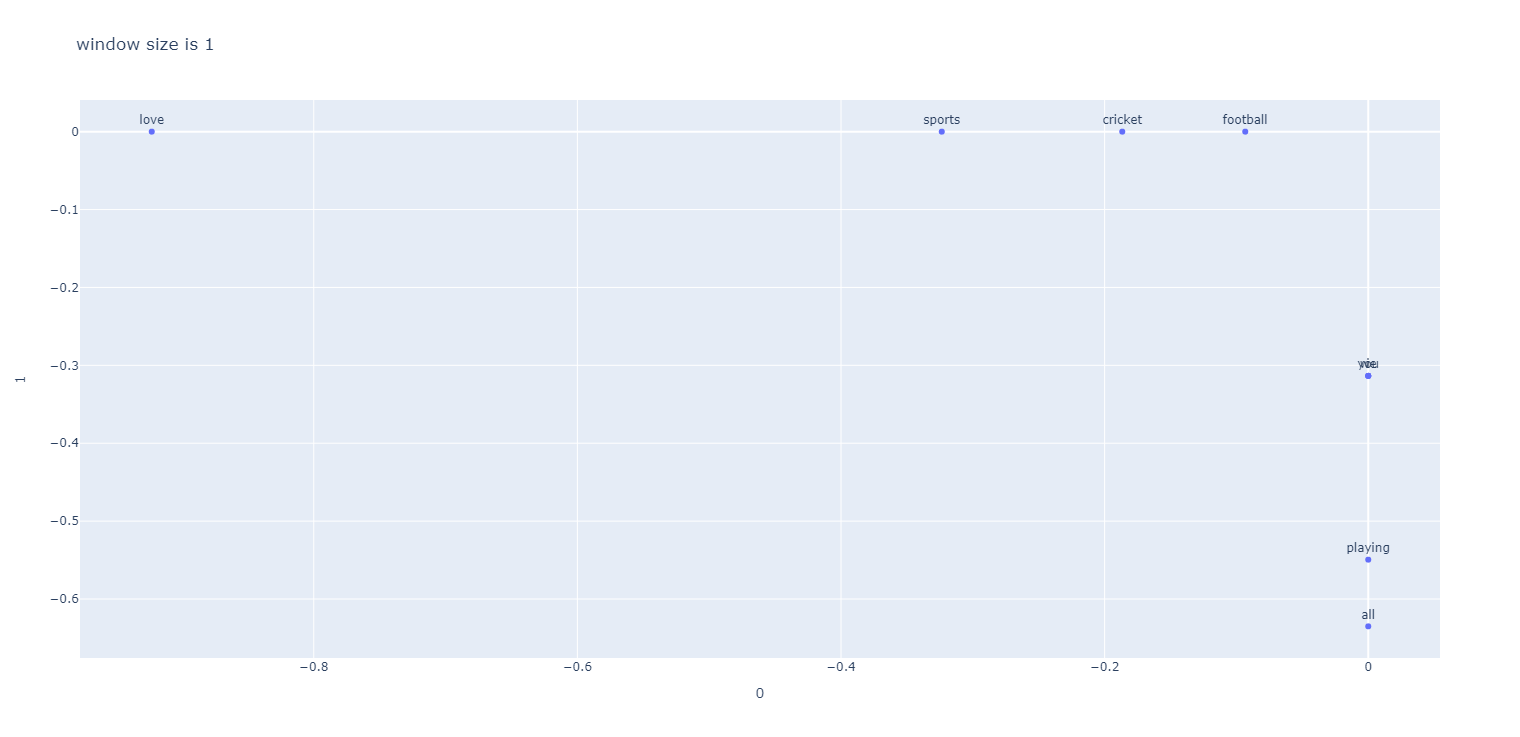
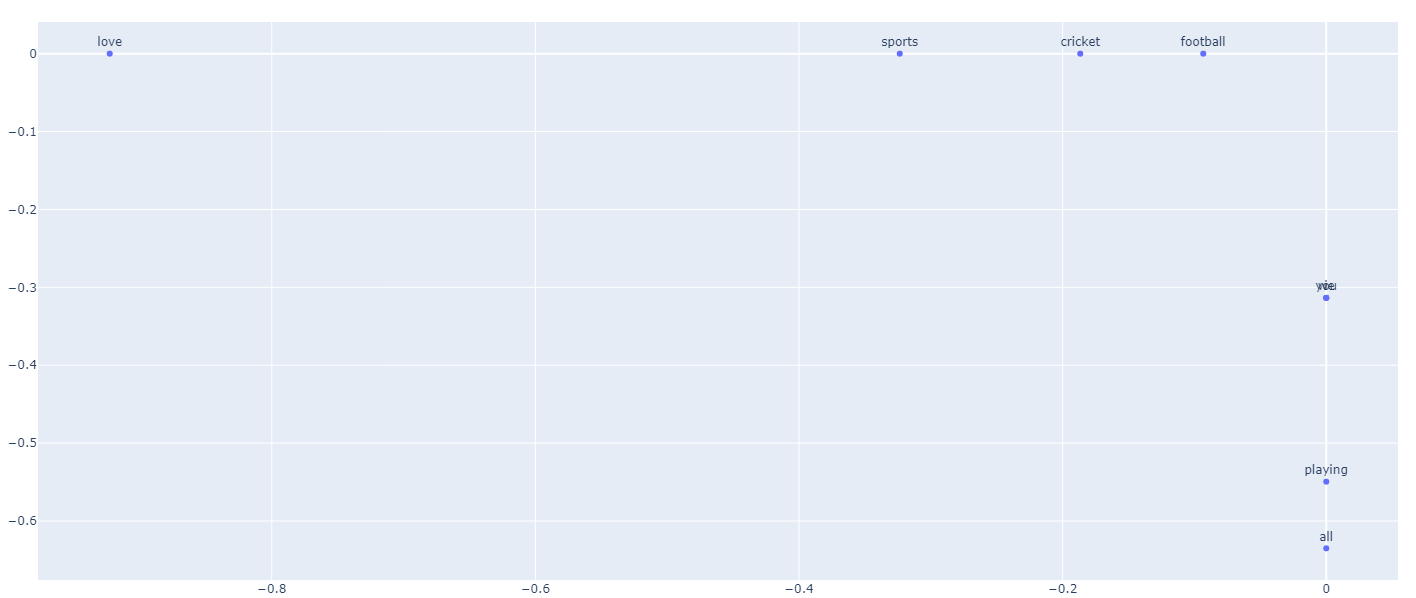
readme with image

Changed region(s): [[0.0, 0.0301, 0.9944, 0.9933], [0.8701, 0.4816, 0.9011, 0.5117]]

diff --git a/README.md b/README.md
@@ -1,3 +1,6 @@
 # Count-based word embedding
 A small project inspired by a lecture at University of Bicocca. 
 First word embedding of mine, using [SVD](https://en.wikipedia.org/wiki/Singular_value_decomposition).
+
+Here is a plot of the similarity of a short text, showing the potential of the SVD word embedding.
+![perfectPlot](images/perfect-sample-plot.png)
